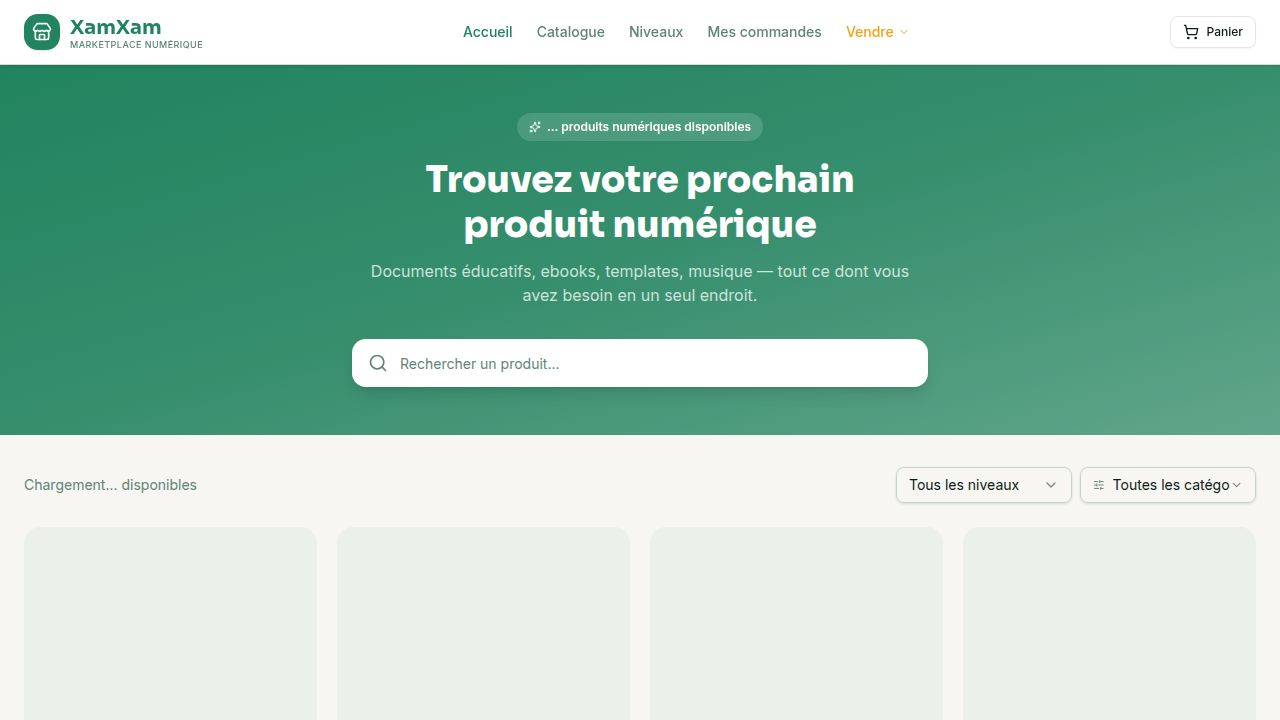
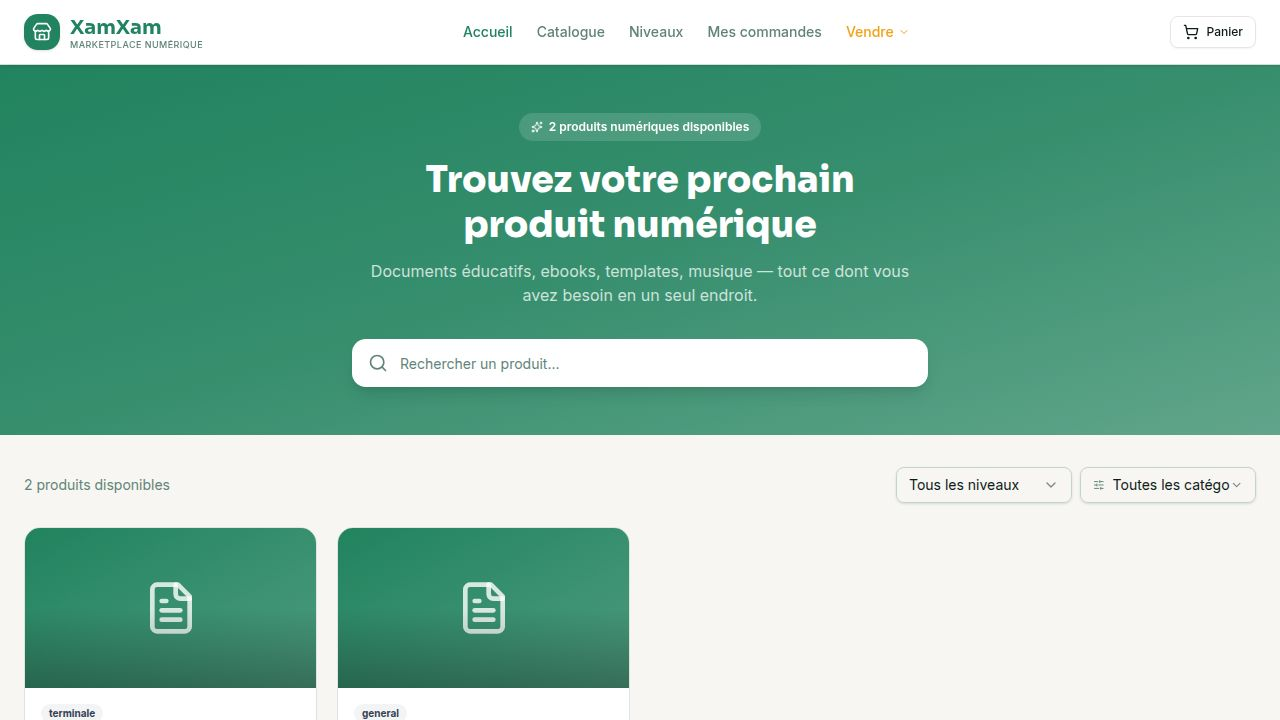
Update frontend build configuration to allow deployment
Make the PORT and BASE_PATH environment variables optional in the Vite configuration to ensure successful builds on deployment platforms.

Replit-Commit-Author: Agent
Replit-Commit-Session-Id: b393ee46-b2c6-4b66-bb50-55ab6b6df45c
Replit-Commit-Checkpoint-Type: full_checkpoint
Replit-Commit-Event-Id: 1c133711-c7fd-4a2e-b1be-ce76e7bec45b
Replit-Commit-Screenshot-Url: https://storage.googleapis.com/screenshot-production-us-central1/f8cabae0-f536-4eb6-bf4f-b826753760a2/b393ee46-b2c6-4b66-bb50-55ab6b6df45c/PEsJqN3
Replit-Helium-Checkpoint-Created: true

Changed region(s): [[0.0, 0.7333, 0.5, 1.0], [0.4062, 0.1528, 0.5938, 0.1833], [0.0312, 0.6417, 0.1562, 0.7028]]

diff --git a/artifacts/dokmart/vite.config.ts b/artifacts/dokmart/vite.config.ts
@@ -4,27 +4,8 @@ import tailwindcss from "@tailwindcss/vite";
 import path from "path";
 import runtimeErrorOverlay from "@replit/vite-plugin-runtime-error-modal";
 
-const rawPort = process.env.PORT;
-
-if (!rawPort) {
-  throw new Error(
-    "PORT environment variable is required but was not provided.",
-  );
-}
-
-const port = Number(rawPort);
-
-if (Number.isNaN(port) || port <= 0) {
-  throw new Error(`Invalid PORT value: "${rawPort}"`);
-}
-
-const basePath = process.env.BASE_PATH;
-
-if (!basePath) {
-  throw new Error(
-    "BASE_PATH environment variable is required but was not provided.",
-  );
-}
+const port = Number(process.env.PORT ?? "3000");
+const basePath = process.env.BASE_PATH ?? "/";
 
 export default defineConfig({
   base: basePath,